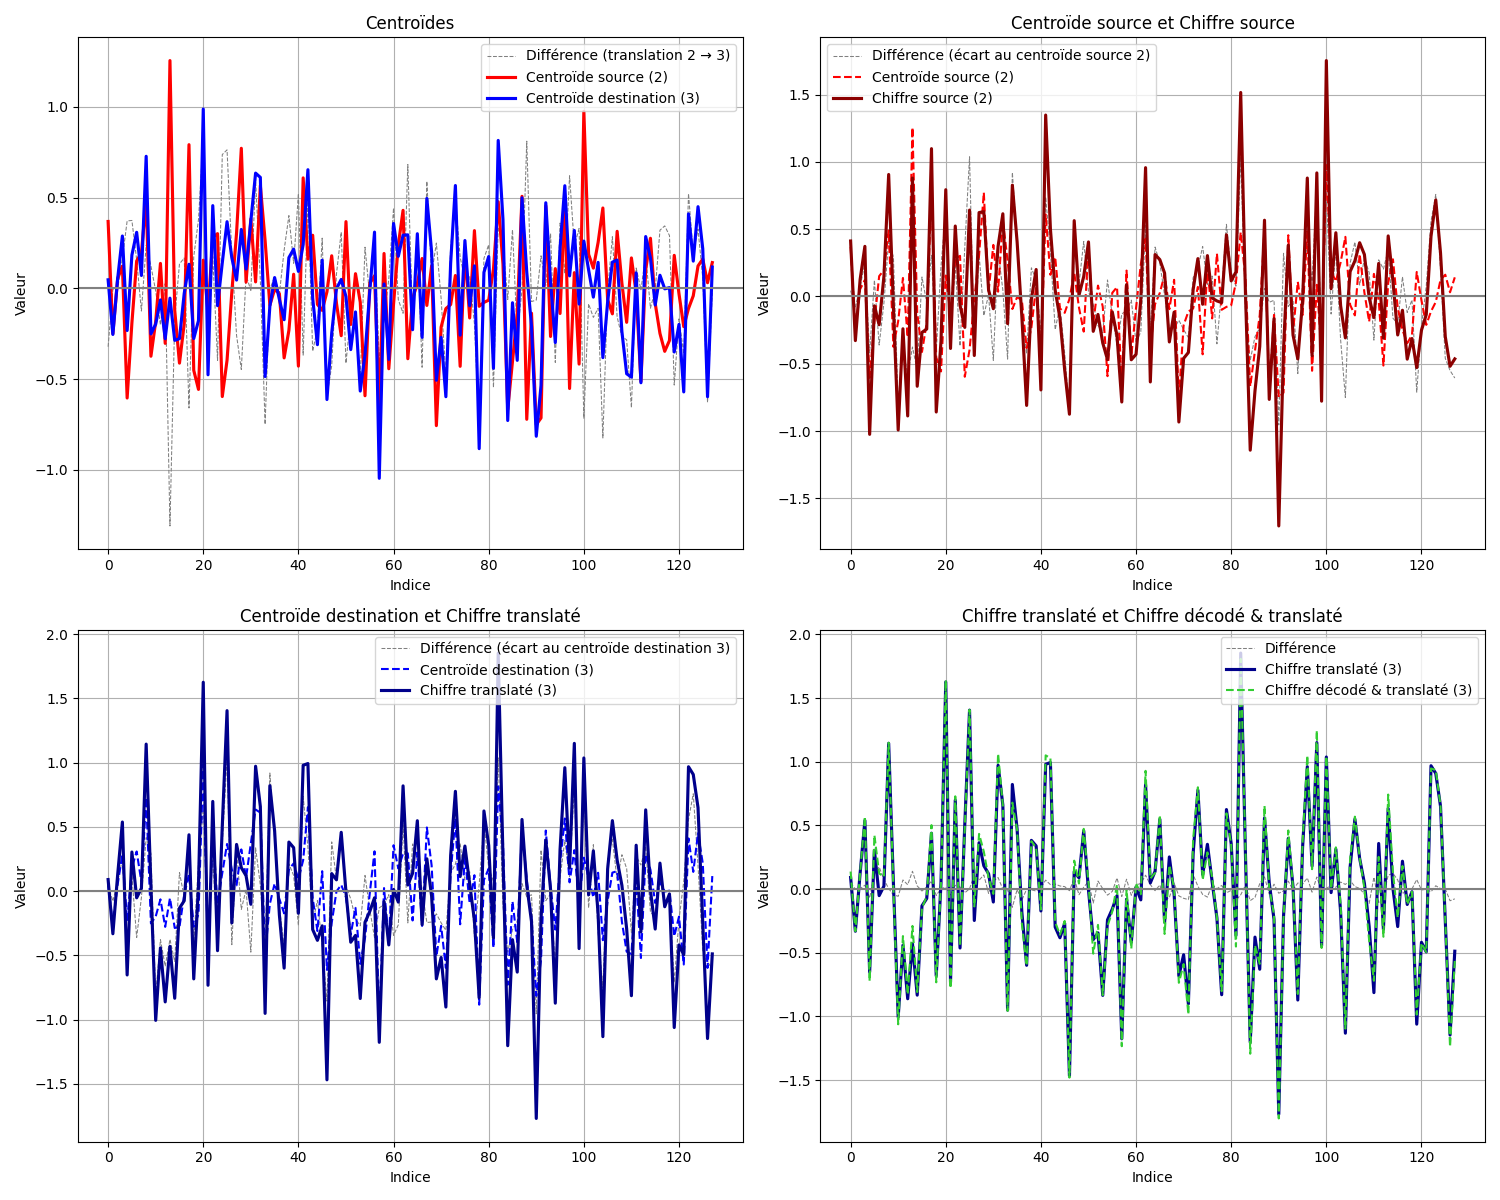
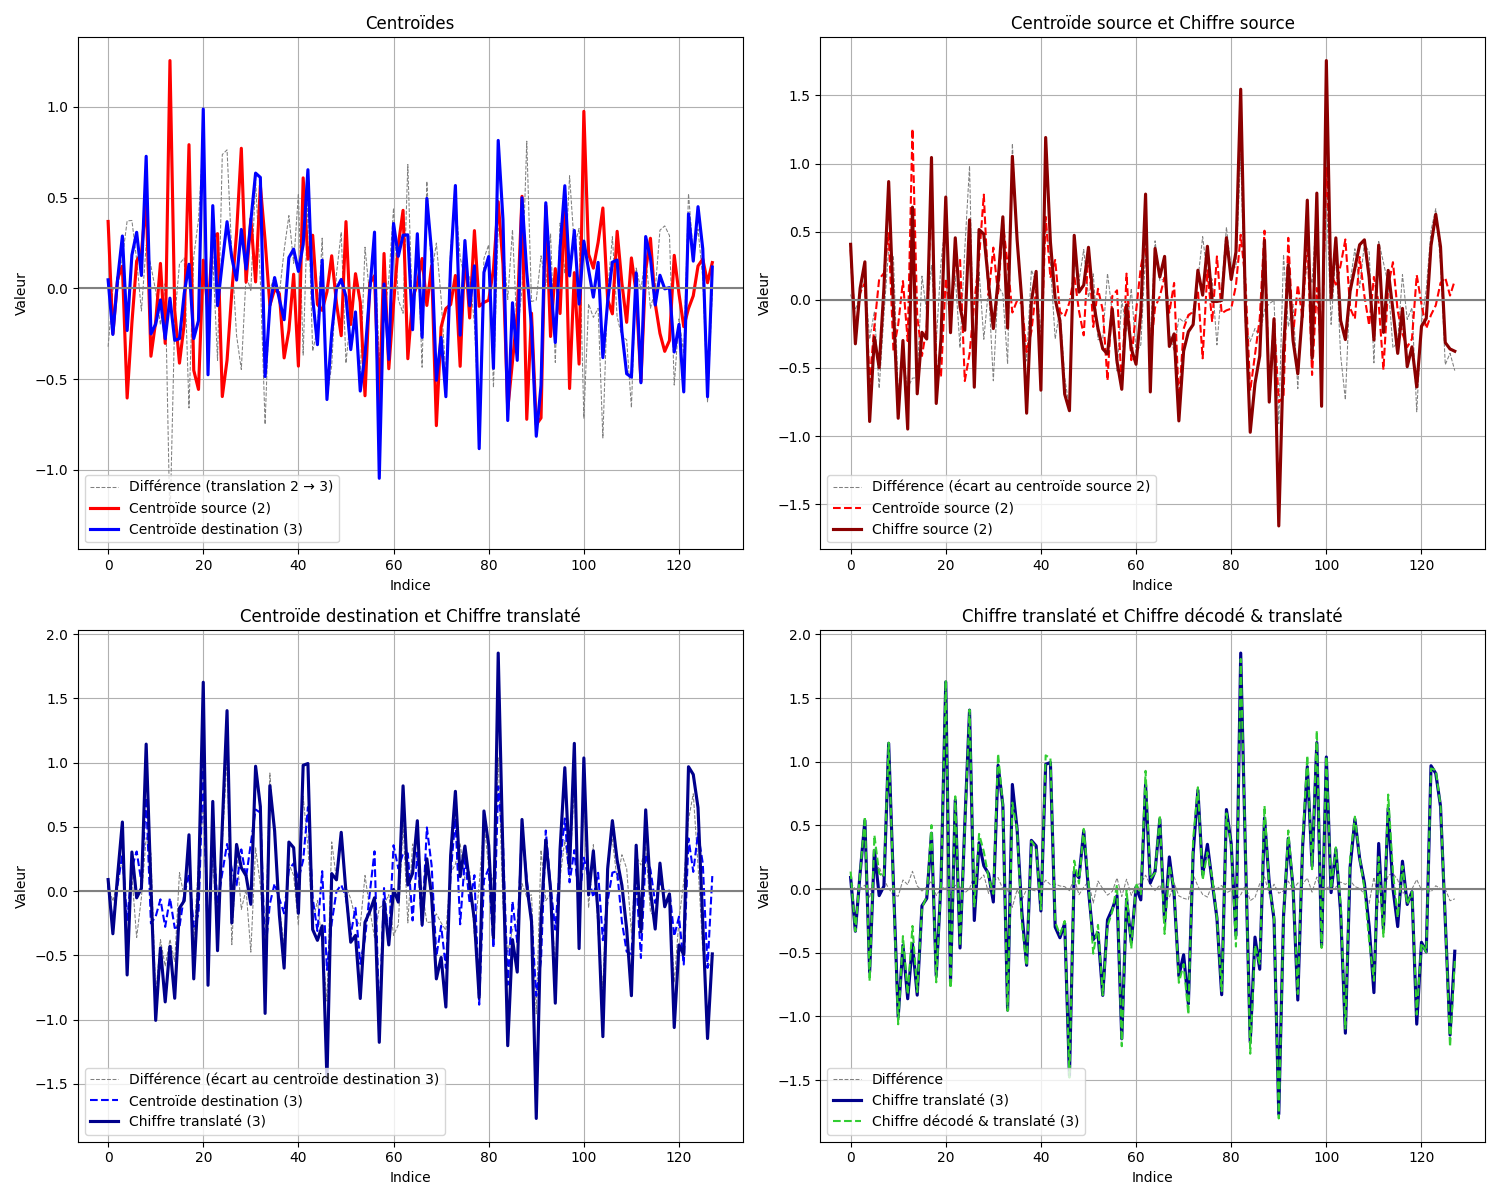
Interactive editor

diff --git a/Code/MNIST/MNIST-New-Model-Translation-Plot.py b/Code/MNIST/MNIST-New-Model-Translation-Plot.py
@@ -28,7 +28,7 @@ X_valid = tf.image.resize(X_valid, (64, 64))
 
 src_digit = 1303
 src_class = Y_valid[src_digit]
-dst_class = 6
+dst_class = 3
 
 batch_size = 32
 
@@ -45,8 +45,8 @@ X_reencoded_train_dst = encoder.predict(X_decoded_train_dst, batch_size = batch_
 
 X_encoded_valid = encoder.predict(X_valid[src_digit:src_digit + 1], batch_size = batch_size)
 X_decoded_valid = decoder.predict(X_encoded_valid, batch_size = batch_size)
-X_encoded_valid = encoder.predict(X_decoded_valid, batch_size = batch_size)
-X_redecoded_valid = decoder.predict(X_encoded_valid, batch_size = batch_size)
+X_reencoded_valid = encoder.predict(X_decoded_valid, batch_size = batch_size)
+X_redecoded_valid = decoder.predict(X_reencoded_valid, batch_size = batch_size)
 X_rereencoded_valid = encoder.predict(X_redecoded_valid, batch_size = batch_size)
 
 mean_encoded_src = np.expand_dims(np.mean(X_reencoded_train_src, axis = 0), axis = 0)
@@ -54,7 +54,7 @@ mean_encoded_dst = np.expand_dims(np.mean(X_reencoded_train_dst, axis = 0), axis
 
 translation = mean_encoded_dst - mean_encoded_src
 
-translated1 = X_encoded_valid + translation
+translated1 = X_reencoded_valid + translation
 translated2 = X_rereencoded_valid + translation
 
 translated_decoded1 = decoder.predict(translated1, batch_size = batch_size)
@@ -87,25 +87,25 @@ axes[0].plot(mean_encoded_dst[0] - mean_encoded_src[0], color="gray", ls="--", l
 axes[0].plot(mean_encoded_src[0], color="red", lw=2.25, label=f"Centroïde source ({src_class})")
 axes[0].plot(mean_encoded_dst[0], color="blue", lw=2.25, label=f"Centroïde destination ({dst_class})")
 axes[0].set_title("Centroïdes")
-axes[0].legend()
+axes[0].legend(loc="lower left")
 
 axes[1].plot(X_encoded_valid[0] - mean_encoded_src[0], color="gray", ls="--", lw=0.75, label=f"Différence (écart au centroïde source {src_class})")
 axes[1].plot(mean_encoded_src[0], color="red", ls="--", lw=1.5, label=f"Centroïde source ({src_class})")
 axes[1].plot(X_encoded_valid[0], color="darkred", lw=2.25, label=f"Chiffre source ({src_class})")
 axes[1].set_title("Centroïde source et Chiffre source")
-axes[1].legend()
+axes[1].legend(loc="lower left")
 
 axes[2].plot(translated1[0] - mean_encoded_dst[0], color="gray", ls="--", lw=0.75, label=f"Différence (écart au centroïde destination {dst_class})")
 axes[2].plot(mean_encoded_dst[0], color="blue", ls="--", lw=1.5, label=f"Centroïde destination ({dst_class})")
 axes[2].plot(translated1[0], color="darkblue", lw=2.25, label=f"Chiffre translaté ({dst_class})")
 axes[2].set_title("Centroïde destination et Chiffre translaté")
-axes[2].legend()
+axes[2].legend(loc="lower left")
 
 axes[3].plot(translated2[0] - translated1[0], color="gray", ls="--", lw=0.75, label=f"Différence")
 axes[3].plot(translated1[0], color="darkblue", lw=2.25, label=f"Chiffre translaté ({dst_class})")
 axes[3].plot(translated2[0], color="#32CD32", ls="--", lw=1.5, label=f"Chiffre décodé & translaté ({dst_class})")
 axes[3].set_title("Chiffre translaté et Chiffre décodé & translaté")
-axes[3].legend()
+axes[3].legend(loc="lower left")
 
 for ax in axes:
     ax.grid(True, which="both")

diff --git a/Code/MNIST/MNIST-New-Model-Interactive-Edition.py b/Code/MNIST/MNIST-New-Model-Interactive-Edition.py
@@ -1,0 +1,78 @@
+import numpy as np
+import matplotlib.pyplot as plt
+import cv2
+import tensorflow as tf
+from tensorflow.keras.models import load_model
+
+encoder = load_model("./Models/VAE/mnist-128-encoder-dis2.keras")
+decoder = load_model("./Models/VAE/mnist-128-decoder-dis2.keras")
+
+(_, _), (X_valid, _) = tf.keras.datasets.mnist.load_data()
+
+src_digit = 1303
+img = X_valid[src_digit]
+
+img_resized = cv2.resize(img, (64, 64), interpolation=cv2.INTER_LINEAR)
+
+img_input = img_resized.astype('float32') / 255.0
+img_input = np.expand_dims(img_input, axis=-1)
+img_input_batch = np.expand_dims(img_input, axis=0)
+
+latent_vector = encoder.predict(img_input_batch)[0]
+
+fig, (ax_latent, ax_img) = plt.subplots(1, 2, figsize=(14, 6), gridspec_kw={'width_ratios': [3, 1]})
+
+x_vals = np.arange(len(latent_vector))
+
+(scatter_points,) = ax_latent.plot(x_vals, latent_vector, 'ro', picker=5)
+
+(line_plot,) = ax_latent.plot(x_vals, latent_vector, 'r-')  
+
+ax_latent.set_xlabel("Indice")
+ax_latent.set_ylabel("Valeur")
+ax_latent.set_title("Caractéristiques latentes")
+
+ax_latent.grid(True, which="both")
+ax_latent.axhline(y=0, color="gray")
+ax_latent.set_xticks(np.arange(0, len(latent_vector), 8))
+
+decoded_img = decoder.predict(np.expand_dims(latent_vector, axis=0))[0]
+decoded_img_disp = np.squeeze(decoded_img)
+
+img_handle = ax_img.imshow(decoded_img_disp, cmap='gray')
+ax_img.set_title("Image décodée")
+ax_img.axis('off')
+
+plt.tight_layout()
+
+selected_index = None
+
+def on_pick(event):
+    global selected_index
+    if event.artist != scatter_points:
+        return
+    selected_index = event.ind[0]
+
+def on_motion(event):
+    global selected_index, latent_vector
+    if selected_index is None or event.ydata is None or event.inaxes != ax_latent:
+        return
+
+    latent_vector[selected_index] = event.ydata
+    scatter_points.set_ydata(latent_vector)
+    line_plot.set_ydata(latent_vector)
+    ax_latent.figure.canvas.draw_idle()
+    decoded = decoder.predict(np.expand_dims(latent_vector, axis=0), verbose=False)[0]
+    decoded_disp = np.squeeze(decoded)
+    img_handle.set_data(decoded_disp)
+    ax_img.figure.canvas.draw_idle()
+
+def on_release(event):
+    global selected_index
+    selected_index = None
+
+fig.canvas.mpl_connect('pick_event', on_pick)
+fig.canvas.mpl_connect('motion_notify_event', on_motion)
+fig.canvas.mpl_connect('button_release_event', on_release)
+
+plt.show()
